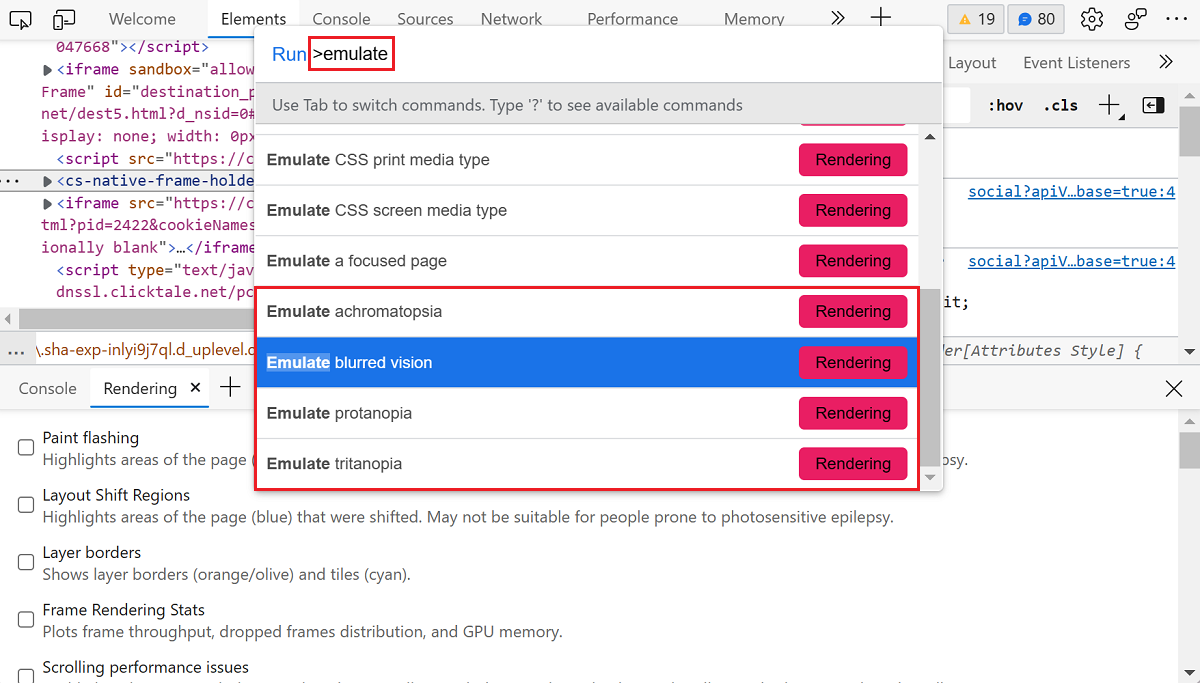
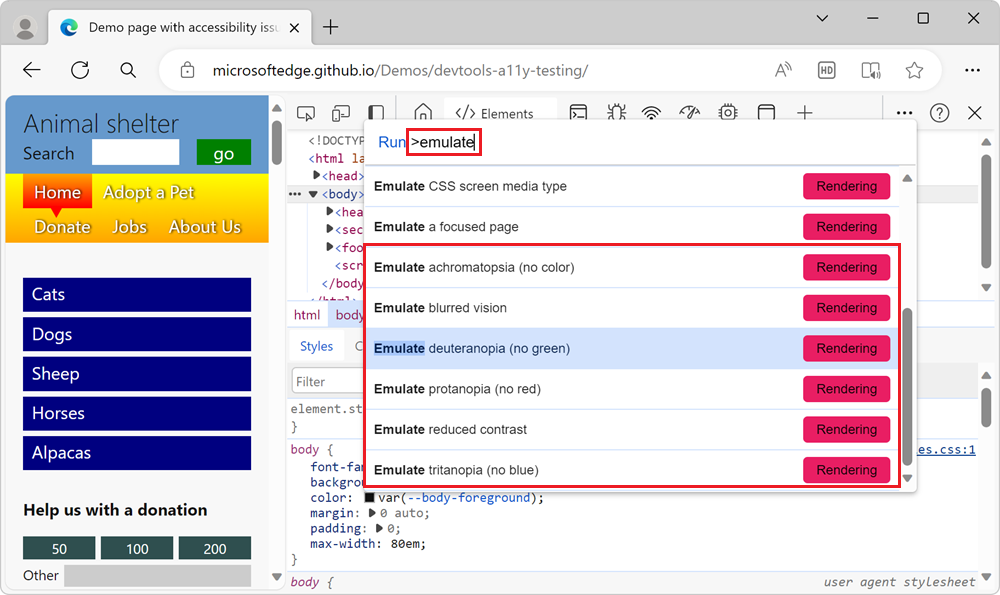
images and content for emulate vision deficiencie s

diff --git a/microsoft-edge/devtools-guide-chromium/accessibility/emulate-vision-deficiencies.md b/microsoft-edge/devtools-guide-chromium/accessibility/emulate-vision-deficiencies.md
@@ -5,11 +5,11 @@ author: MSEdgeTeam
 ms.author: msedgedevrel
 ms.topic: conceptual
 ms.prod: microsoft-edge
-ms.date: 06/07/2021
+ms.date: 12/04/2023
 ---
 # Emulate vision deficiencies
 
-To better meet the needs of your users with [color vision deficiency](https://www.colourblindawareness.org) (color blindness) or blurred vision, [Microsoft Edge DevTools](../index.md) allows you to simulate blurred vision and specific color vision deficiencies.  The **Emulate vision deficiencies** tool simulates the following categories:
+To better meet the needs of your users with [color vision deficiency](https://www.colourblindawareness.org) (color blindness) or blurred vision, Microsoft Edge DevTools allows you to simulate blurred vision and specific color vision deficiencies.  The **Emulate vision deficiencies** tool simulates the following categories:
 
 | Color vision deficiency | Details |
 |:--- |:--- |
@@ -25,37 +25,31 @@ The **Emulate vision deficiencies** tools simulate approximations of how a perso
 <!-- ====================================================================== -->
 ## Open the Rendering tool
 
-To simulate how a person with a vision deficiency would see your web page, open the [Rendering Tools](../rendering-tools/index.md).
+To simulate how a person with a vision deficiency would see your web page, use the **Rendering** tool:
 
-1. Click **Customize and control DevTools** (`...`) in the toolbar.
+1. To open DevTools, right-click the webpage, and then select **Inspect**.  Or, press **Ctrl+Shift+I** (Windows, Linux) or **Command+Option+I** (macOS).  DevTools opens.
 
-1. Go to **More tools** > **Rendering** to open the **Rendering** panel in the drawer.
+1. In DevTools, on the Activity Bar, select the **Rendering** tab.  If that tab isn't visible, click the **More tools** (![More tools icon](./emulate-vision-deficiencies-images/more-tools-icon.png)) button. The **Rendering** tool opens.
 
-   > [!div class="mx-imgBorder"]
-   > ![Opening the Rendering panel from the More tools menu](./emulate-vision-deficiencies-images/getting-to-the-rendering-tools.png)
+1. Scroll down to the **Emulate vision deficiencies** section:
 
-1. Scroll down to the **Emulate vision deficiencies** section, click the **No emulation** dropdown list, and then select an option.
+   ![The Emulate vision deficiencies section in the Rendering tool](./emulate-vision-deficiencies-images/accessibility-emulate-vision-menu-options.png)
 
-   > [!div class="mx-imgBorder"]
-   > ![The Emulate vision deficiencies section in the Rendering panel](./emulate-vision-deficiencies-images/accessibility-emulate-vision-menu-options.png)
+1. Click the **No emulation** dropdown list, and then select an option. The browser window simulates the selected vision deficiency in the rendered webpage:
 
-1. The browser window simulates the selected vision deficiency on the current page.
-
-   > [!div class="mx-imgBorder"]
-   > ![The browser window, with modified colors in the web page to simulate the selected color vision deficiency](./emulate-vision-deficiencies-images/accessibility-blurred-vision-emulation.png)
+   ![The browser window, with modified colors in the web page to simulate the selected color vision deficiency](./emulate-vision-deficiencies-images/accessibility-blurred-vision-emulation.png)
 
 
 <!-- ====================================================================== -->
 ## Use the Command Menu
 
-As an alternative approach, you can use the **Command Menu** to access the different simulations.
+As an alternative approach, you can use the **Command Menu** to access the different simulations:
 
 1. Press **Ctrl+Shift+P** (Windows, Linux) or **Command+Shift+P** (macOS) to open the **Command Menu**.
 
 1. Type **emulate**, select the type of vision deficiency you want to simulate, and then press **Enter**.
 
-   > [!div class="mx-imgBorder"]
-   > ![The command menu showing the different types of vision deficiencies](./emulate-vision-deficiencies-images/accessibility-emulation-command-menu-results.png)
+   ![The command menu showing the different types of vision deficiencies](./emulate-vision-deficiencies-images/accessibility-emulation-command-menu-results.png)
 
 
 <!-- ====================================================================== -->
